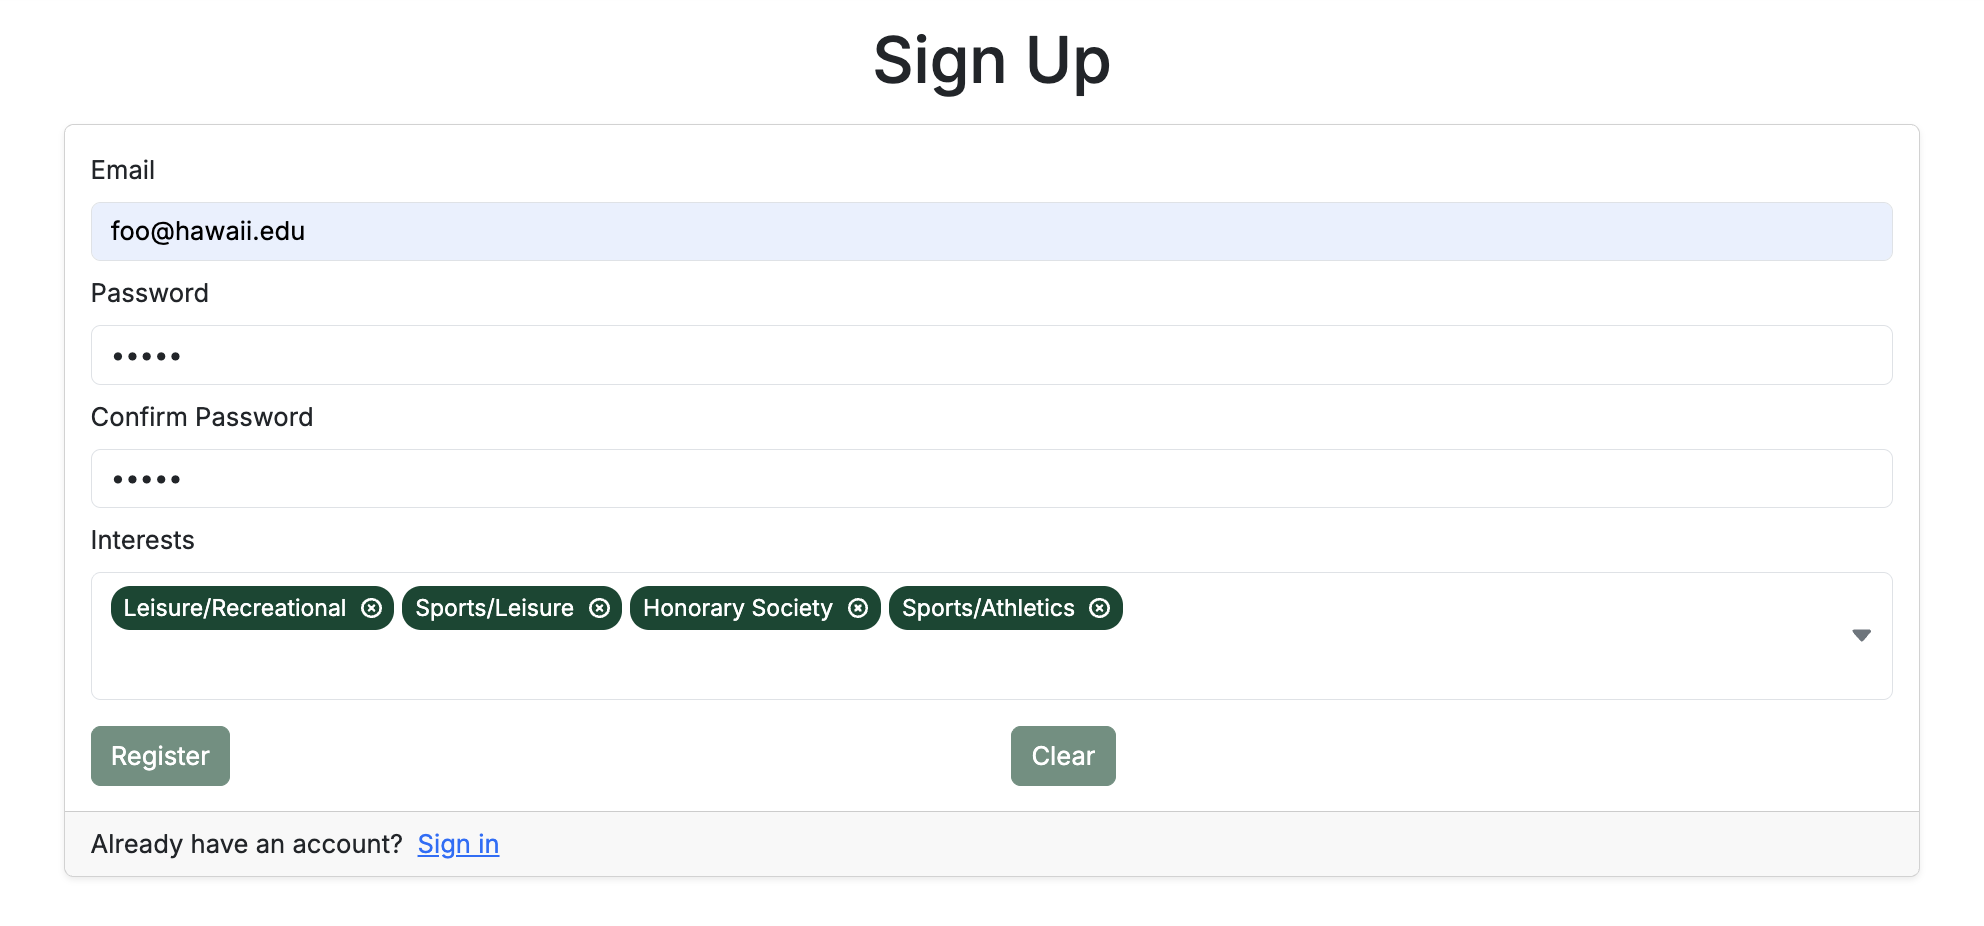
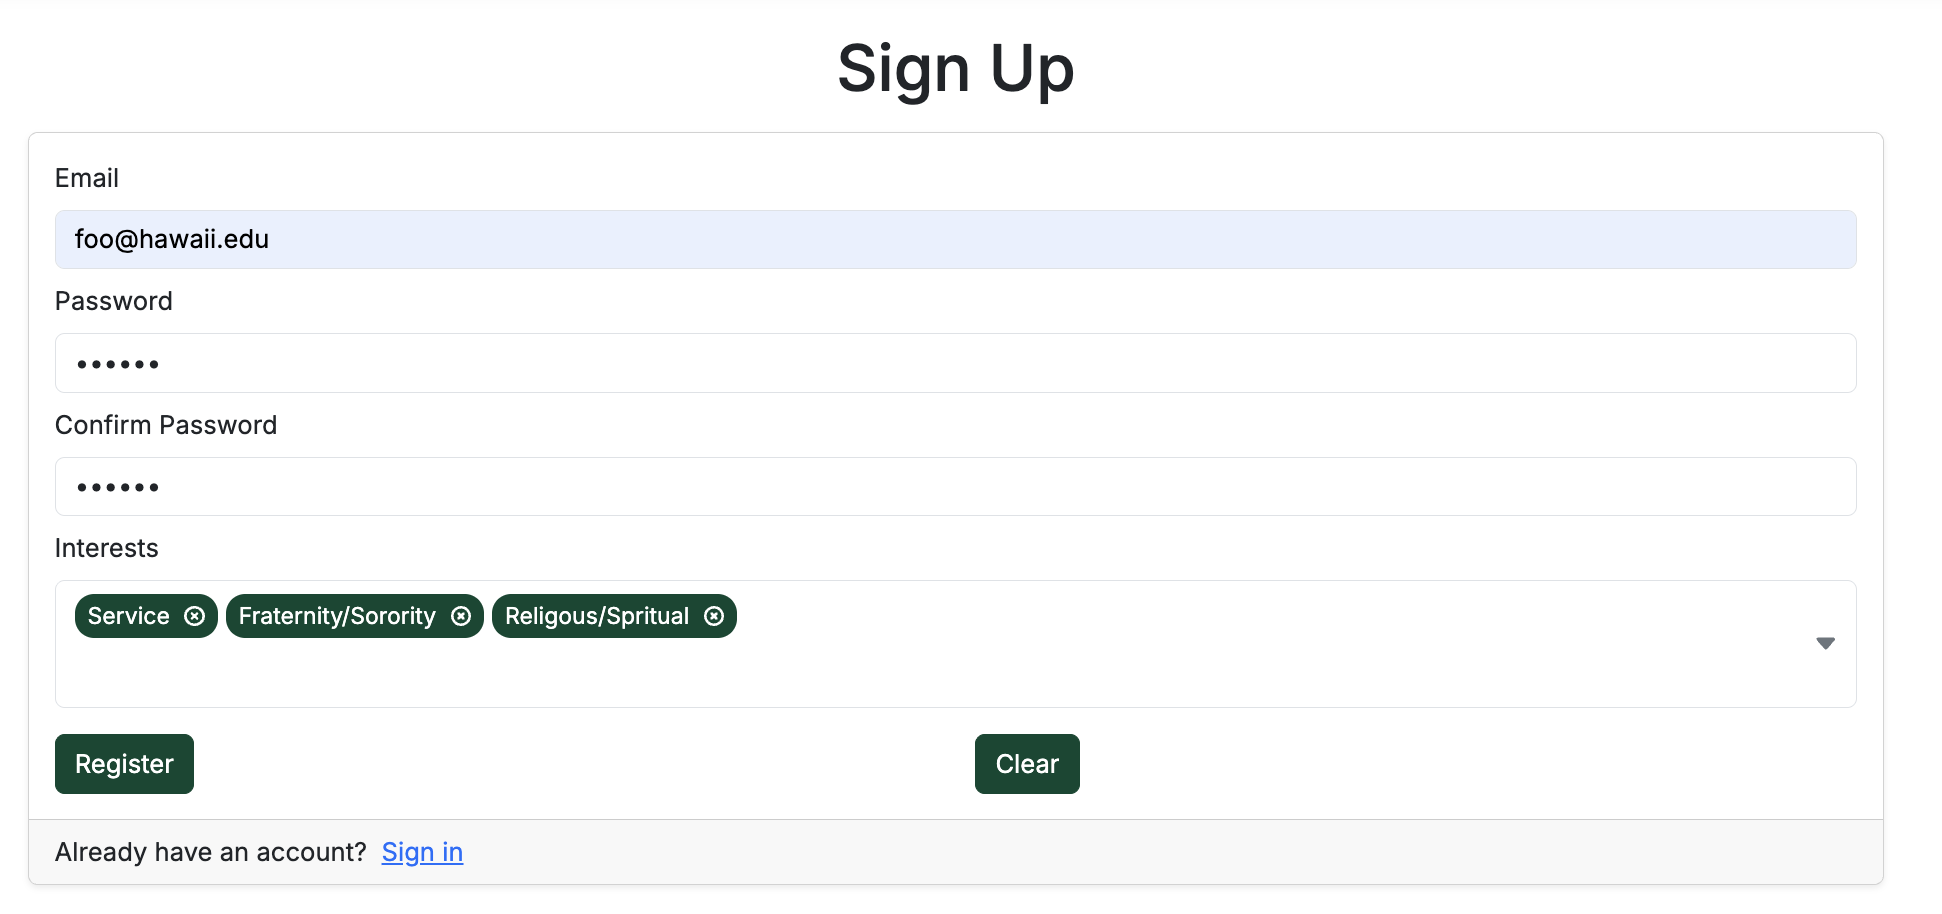
Update help page image and styles
Replaced popup.png and signup.png images with new versions. Modified the HelpPage image style to set a fixed height of 400 for the popup screenshot.

diff --git a/src/app/help/page.tsx b/src/app/help/page.tsx
@@ -96,7 +96,7 @@ export default function HelpPage() {
                 src="/images/popup.png"
                 alt="Screenshot of the popup"
                 className="img-fluid rounded shadow-sm d-block mx-auto"
-                style={{ maxWidth: '500px', height: 'auto' }}
+                style={{ maxWidth: '500px', height: '400' }}
               />
             </Col>
           </Row>
